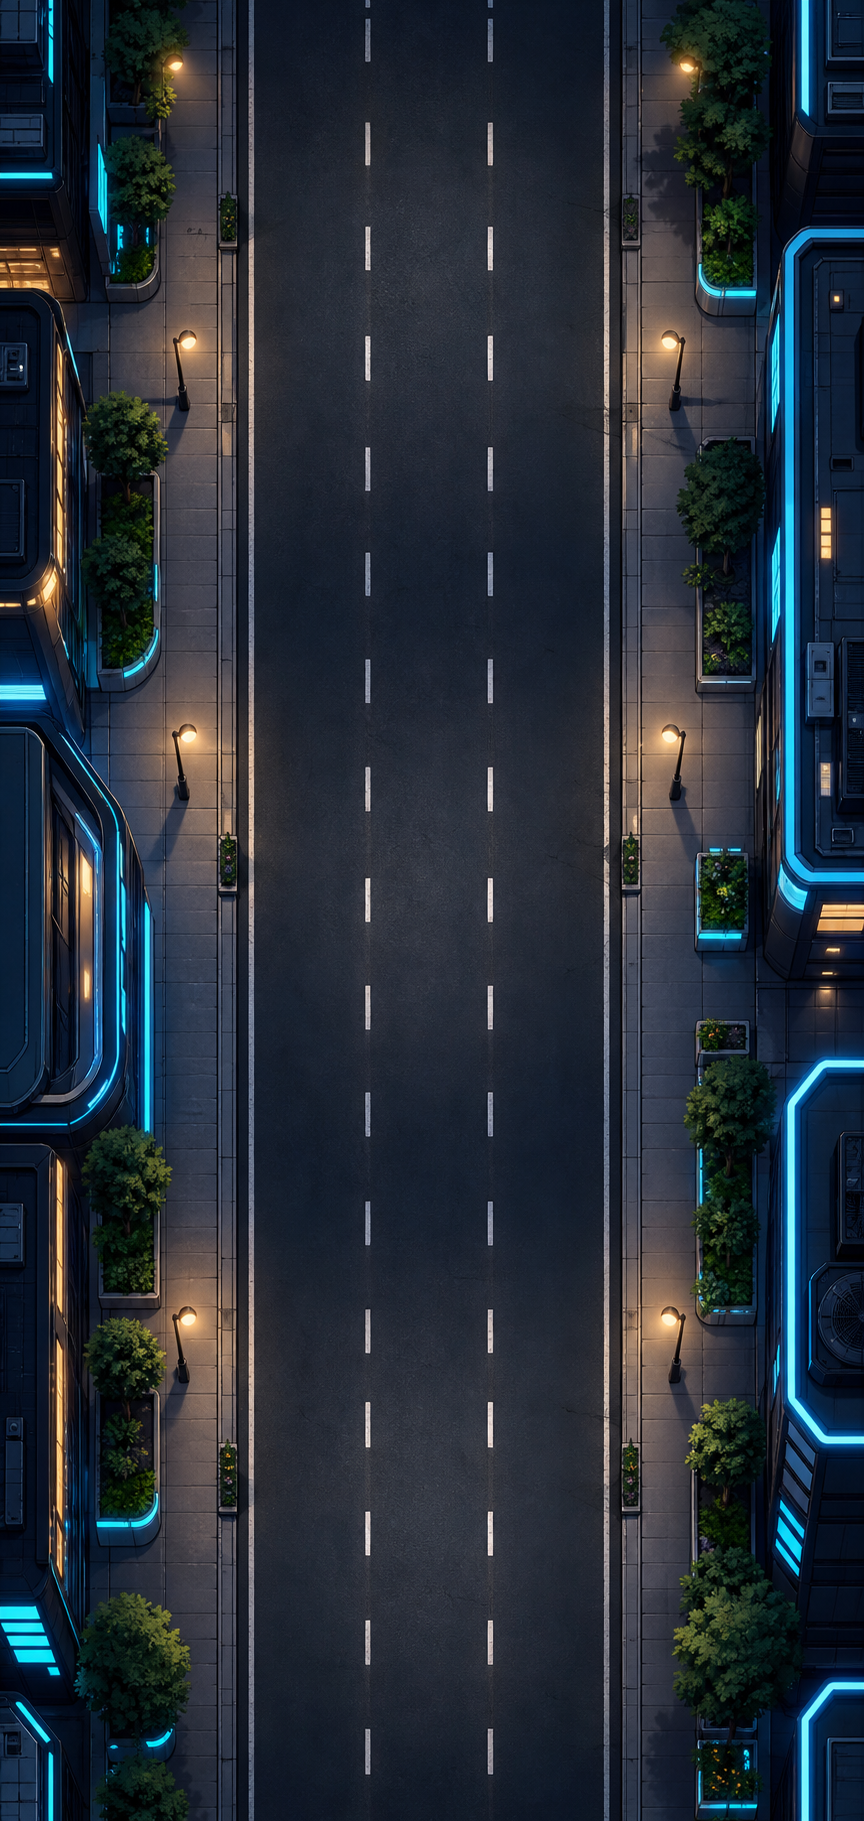
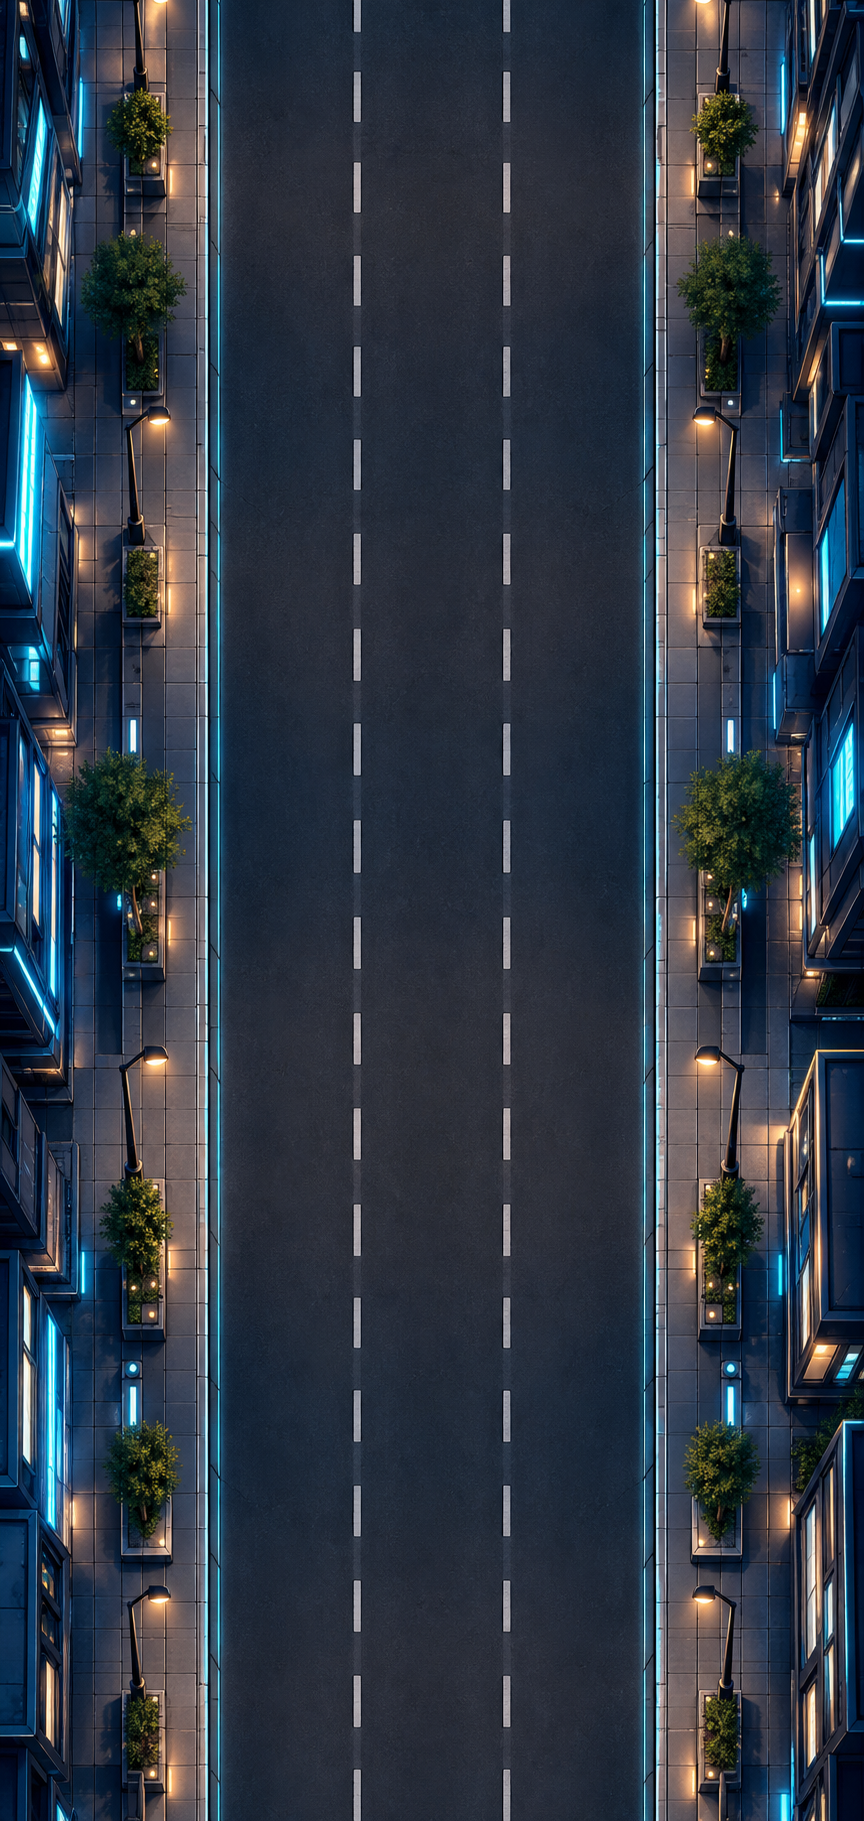
Widen unified road background

diff --git a/index.html b/index.html
@@ -4620,7 +4620,7 @@ function drawRoad() {
       const sourcePerPixel = 1.42;
       const sliceH = 5;
       const seamBlend = sourceH * 0.11;
-      const scrollY = roadScroll * 1.08;
+      const scrollY = -roadScroll * 1.08;
 
       ctx.fillStyle = "#07111c";
       ctx.fillRect(0, 0, W, H);
